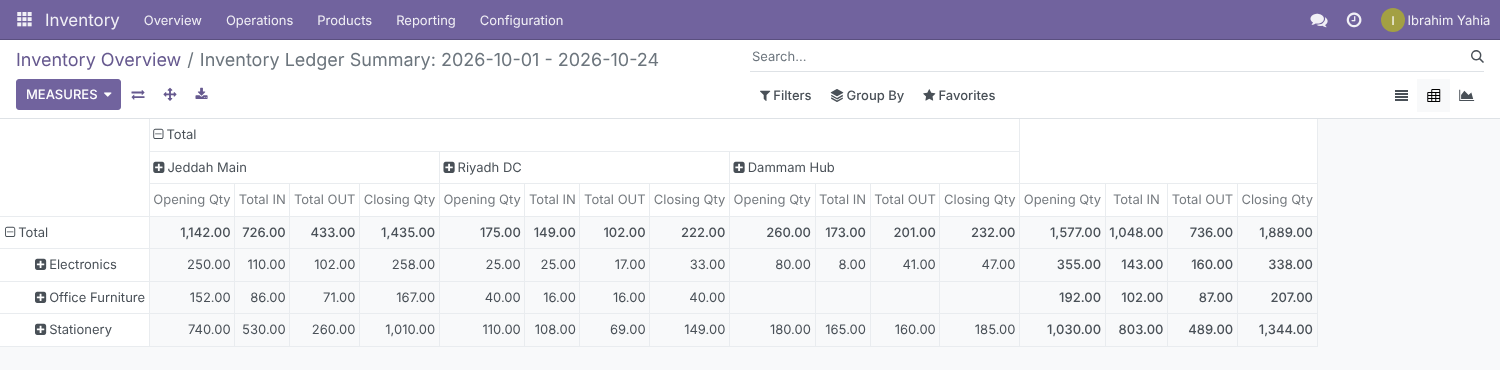
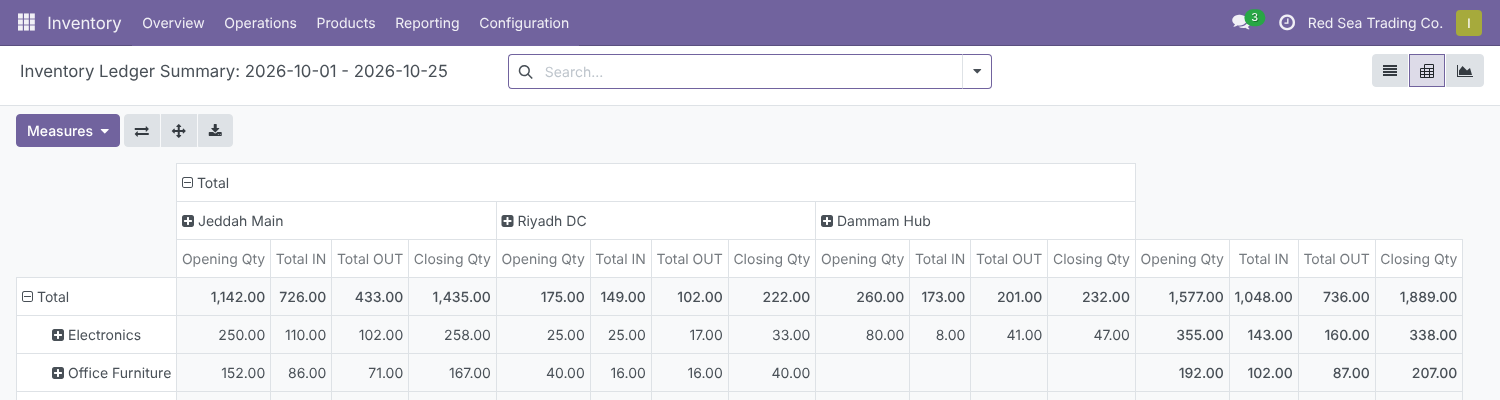
Add files via upload

diff --git a/advanced_inventory_ledger_report/static/description/index.html b/advanced_inventory_ledger_report/static/description/index.html
@@ -1,4 +1,4 @@
-<!-- Odoo Apps description page for advanced_inventory_ledger_report (Odoo 16.0). Inline styles only: apps.odoo.com strips <style> and <script> blocks. -->
+<!-- Odoo Apps description page for advanced_inventory_ledger_report (Odoo 18.0). Inline styles only: apps.odoo.com strips <style> and <script> blocks. -->
 <section style="max-width:1120px;margin:0 auto;padding:0 16px;font-family:-apple-system,BlinkMacSystemFont,'Segoe UI',Roboto,'Helvetica Neue',Arial,sans-serif;color:#2b2b33;">
 
 <!-- ============================== HERO ============================== -->
@@ -7,9 +7,9 @@
   <h1 style="font-size:40px;line-height:1.15;font-weight:700;margin:0 0 14px;color:#ffffff;">Advanced Inventory Ledger Report</h1>
   <p style="font-size:19px;line-height:1.55;max-width:760px;margin:0 0 24px;color:#ffffff;opacity:.95;">Opening stock, every receipt, delivery, return, transfer and adjustment, and closing stock &ndash; quantity and value, per product and warehouse, for any period. Computed by a single PostgreSQL query and delivered as an interactive list, pivot, Excel file or PDF.</p>
   <div>
-    <span style="display:inline-block;border:1px solid rgba(255,255,255,.7);border-radius:20px;padding:6px 14px;margin:0 8px 8px 0;font-size:14px;">Odoo 16.0</span>
+    <span style="display:inline-block;border:1px solid rgba(255,255,255,.7);border-radius:20px;padding:6px 14px;margin:0 8px 8px 0;font-size:14px;">Odoo 18.0</span>
     <span style="display:inline-block;border:1px solid rgba(255,255,255,.7);border-radius:20px;padding:6px 14px;margin:0 8px 8px 0;font-size:14px;">Community &amp; Enterprise</span>
-    <span style="display:inline-block;border:1px solid rgba(255,255,255,.7);border-radius:20px;padding:6px 14px;margin:0 8px 8px 0;font-size:14px;">17 automated tests</span>
+    <span style="display:inline-block;border:1px solid rgba(255,255,255,.7);border-radius:20px;padding:6px 14px;margin:0 8px 8px 0;font-size:14px;">19 automated tests</span>
     <span style="display:inline-block;border:1px solid rgba(255,255,255,.7);border-radius:20px;padding:6px 14px;margin:0 8px 8px 0;font-size:14px;">English &amp; Arabic</span>
     <span style="display:inline-block;border:1px solid rgba(255,255,255,.7);border-radius:20px;padding:6px 14px;margin:0 8px 8px 0;font-size:14px;">Technical name: advanced_inventory_ledger_report</span>
     <span style="display:inline-block;border:1px solid rgba(255,255,255,.7);border-radius:20px;padding:6px 14px;margin:0 8px 8px 0;font-size:14px;">LGPL-3</span>
@@ -21,7 +21,7 @@
   <div style="flex:1 1 220px;margin:8px;background:#f6f4f6;border-radius:14px;padding:20px 22px;"><div style="font-size:30px;font-weight:700;color:#714B67;">1 SQL query</div><div style="font-size:15px;color:#555;">per report run, whatever the number of products or warehouses</div></div>
   <div style="flex:1 1 220px;margin:8px;background:#eef6f6;border-radius:14px;padding:20px 22px;"><div style="font-size:30px;font-weight:700;color:#017E84;">8 movement types</div><div style="font-size:15px;color:#555;">purchases, sales, both kinds of returns, internal IN / OUT, adjustments</div></div>
   <div style="flex:1 1 220px;margin:8px;background:#f6f4f6;border-radius:14px;padding:20px 22px;"><div style="font-size:30px;font-weight:700;color:#714B67;">3 outputs</div><div style="font-size:15px;color:#555;">list / pivot / graph in Odoo, branded Excel, landscape PDF</div></div>
-  <div style="flex:1 1 220px;margin:8px;background:#eef6f6;border-radius:14px;padding:20px 22px;"><div style="font-size:30px;font-weight:700;color:#017E84;">17 tests</div><div style="font-size:15px;color:#555;">closing stock and value checked against Odoo&rsquo;s own figures</div></div>
+  <div style="flex:1 1 220px;margin:8px;background:#eef6f6;border-radius:14px;padding:20px 22px;"><div style="font-size:30px;font-weight:700;color:#017E84;">19 tests</div><div style="font-size:15px;color:#555;">closing stock and value checked against Odoo&rsquo;s own figures</div></div>
 </div>
 
 <!-- ============================== WHY ============================== -->
@@ -29,7 +29,7 @@
 <p style="font-size:16px;color:#555;margin:0 0 18px;">Accountants and warehouse managers ask the same question every month: <i>what did we have, what came in, what went out, and what is left?</i> Standard Odoo has the data but not the report.</p>
 <div style="display:flex;flex-wrap:wrap;margin:0 -10px;">
   <div style="flex:1 1 440px;margin:10px;border:1px solid #f1d6d6;background:#fff8f8;border-radius:14px;padding:24px 26px;">
-    <h3 style="font-size:19px;font-weight:700;color:#b33939;margin:0 0 12px;">In standard Odoo 16</h3>
+    <h3 style="font-size:19px;font-weight:700;color:#b33939;margin:0 0 12px;">In standard Odoo 18</h3>
     <ul style="font-size:15px;line-height:1.65;margin:0;padding-left:20px;color:#3a3a42;">
       <li>The <b>Stock</b> report shows quantities at one point in time; there is <b>no opening &rarr; closing bridge</b> for a period.</li>
       <li><b>Moves History</b> lists move lines one by one, with <b>no opening balance and no running balance</b>.</li>
@@ -64,19 +64,19 @@
 
 <!-- ============================== FEATURES ============================== -->
 <h2 style="font-size:28px;font-weight:700;margin:44px 0 6px;color:#2b2b33;">Features</h2>
-<p style="font-size:16px;color:#555;margin:0;">Screenshots use demo data: <b>Red Sea Trading Co.</b> (SAR) with three warehouses &ndash; Jeddah Main, Riyadh DC and Dammam Hub &ndash; 12 products in three categories and 20 transfers over September and October 2026. The report period is 1&ndash;24 October 2026.</p>
+<p style="font-size:16px;color:#555;margin:0;">Screenshots use demo data: <b>Red Sea Trading Co.</b> (SAR) with three warehouses &ndash; Jeddah Main, Riyadh DC and Dammam Hub &ndash; 12 products in three categories and 20 transfers over September and October 2026. The report period is 1&ndash;25 October 2026.</p>
 
 <div style="margin:44px 0 0;">
   <div style="font-size:13px;font-weight:700;color:#017E84;letter-spacing:1px;text-transform:uppercase;">Menus</div>
   <h3 style="font-size:23px;font-weight:700;margin:4px 0 8px;">Right where stock reports live</h3>
-  <p style="font-size:15px;line-height:1.6;color:#555;margin:0 0 14px;">A single entry, <b>Inventory &rsaquo; Reporting &rsaquo; Inventory Ledger</b>, available to every <b>Inventory / User</b>. Nothing to configure after installation.</p>
+  <p style="font-size:15px;line-height:1.6;color:#555;margin:0 0 14px;">A single entry, <b>Inventory &rsaquo; Reporting &rsaquo; Inventory Ledger</b>. Like the rest of Odoo&rsquo;s Reporting menu it is visible to <b>Inventory / Administrator</b> users. Nothing to configure after installation.</p>
   <img src="ilr_01_menu.png" alt="Inventory Ledger entry in the Inventory Reporting menu" style="width:100%;max-width:760px;border:1px solid #e1e1e6;border-radius:10px;box-shadow:0 6px 24px rgba(30,30,60,.10);"/>
 </div>
 
 <div style="margin:44px 0 0;">
   <div style="font-size:13px;font-weight:700;color:#017E84;letter-spacing:1px;text-transform:uppercase;">Feature 1</div>
   <h3 style="font-size:23px;font-weight:700;margin:4px 0 8px;">One dialog for every question</h3>
-  <p style="font-size:15px;line-height:1.6;color:#555;margin:0 0 14px;">Pick the <b>Report Type</b> (<b>Summary</b> or <b>Detailed</b>) and the <b>Period</b> &ndash; by default the first of the month to today. Narrow the <b>Scope</b> with <b>Warehouses</b>, <b>Product Categories</b> (sub-categories included) and <b>Products</b>, or leave them empty for everything. <b>Hide Zero Lines</b> skips products with no opening stock and no movement. The <b>Opening Stock Method</b> chooses between <b>Fast</b> (current stock rolled back to the start date) and <b>Audit</b> (sum of the full move history) &ndash; both give the same figures on healthy data, so you can use Audit to cross-check.</p>
+  <p style="font-size:15px;line-height:1.6;color:#555;margin:0 0 14px;">Pick the <b>Report Type</b> (<b>Summary</b> or <b>Detailed</b>) and the <b>Period</b> &ndash; by default the first of the month to today. Narrow the <b>Scope</b> with <b>Warehouses</b>, <b>Product Categories</b> (sub-categories included) and <b>Products</b> (goods with <b>Track Inventory</b>), or leave them empty for everything. <b>Hide Zero Lines</b> skips products with no opening stock and no movement. The <b>Opening Stock Method</b> chooses between <b>Fast</b> (current stock rolled back to the start date) and <b>Audit</b> (sum of the full move history) &ndash; both give the same figures on healthy data, so you can use Audit to cross-check.</p>
   <img src="ilr_02_wizard.png" alt="Inventory Ledger wizard with Summary report type and default period" style="width:100%;max-width:1000px;border:1px solid #e1e1e6;border-radius:10px;box-shadow:0 6px 24px rgba(30,30,60,.10);"/>
 </div>
 
@@ -91,7 +91,7 @@
 <div style="margin:44px 0 0;">
   <div style="font-size:13px;font-weight:700;color:#017E84;letter-spacing:1px;text-transform:uppercase;">Feature 3</div>
   <h3 style="font-size:23px;font-weight:700;margin:4px 0 8px;">Pivot and graph out of the box</h3>
-  <p style="font-size:15px;line-height:1.6;color:#555;margin:0 0 14px;">The same lines open in Odoo&rsquo;s native <b>pivot</b> &ndash; product categories down, warehouses across, with <b>Opening Qty</b>, <b>Total IN</b>, <b>Total OUT</b> and <b>Closing Qty</b> as measures &ndash; and in a <b>graph</b> of closing stock per warehouse, stacked by category. Re-group, swap axes, add value measures or download the pivot as usual.</p>
+  <p style="font-size:15px;line-height:1.6;color:#555;margin:0 0 14px;">The same lines open in Odoo&rsquo;s native <b>pivot</b> &ndash; product categories down, warehouses across, with <b>Opening Qty</b>, <b>Total IN</b>, <b>Total OUT</b> and <b>Closing Qty</b> as measures &ndash; and in a <b>graph</b> of closing stock per warehouse, stacked by category, with Odoo&rsquo;s <b>Sum</b> line on top. Re-group, swap axes, add value measures or download the pivot as usual.</p>
   <img src="ilr_04_pivot.png" alt="Pivot of opening, IN, OUT and closing quantity by category and warehouse" style="width:100%;margin-bottom:22px;border:1px solid #e1e1e6;border-radius:10px;box-shadow:0 6px 24px rgba(30,30,60,.10);"/>
   <img src="ilr_05_graph.png" alt="Bar graph of closing stock per warehouse stacked by product category" style="width:100%;border:1px solid #e1e1e6;border-radius:10px;box-shadow:0 6px 24px rgba(30,30,60,.10);"/>
 </div>
@@ -164,23 +164,24 @@
   <div style="flex:1 1 320px;margin:8px;padding:16px 18px;border:1px solid #e8e8ee;border-radius:12px;"><b>Fast opening stock</b><br/><span style="color:#555;">The default method reads only moves since the start date and rolls back today&rsquo;s stock. Use the Audit method to rebuild from full history and compare.</span></div>
   <div style="flex:1 1 320px;margin:8px;padding:16px 18px;border:1px solid #e8e8ee;border-radius:12px;"><b>Inter-warehouse transfers</b><br/><span style="color:#555;">Internal OUT in the source, Internal IN in the destination, including transfers through a transit location. Moves within one warehouse do not inflate totals.</span></div>
   <div style="flex:1 1 320px;margin:8px;padding:16px 18px;border:1px solid #e8e8ee;border-radius:12px;"><b>Sub-locations</b><br/><span style="color:#555;">Shelves, bins and any internal location below a warehouse are counted as that warehouse.</span></div>
-  <div style="flex:1 1 320px;margin:8px;padding:16px 18px;border:1px solid #e8e8ee;border-radius:12px;"><b>Units of measure</b><br/><span style="color:#555;">Quantities are converted to the product&rsquo;s unit of measure, so purchases in boxes and sales in units add up correctly.</span></div>
+  <div style="flex:1 1 320px;margin:8px;padding:16px 18px;border:1px solid #e8e8ee;border-radius:12px;"><b>Units of measure and over-receipts</b><br/><span style="color:#555;">The quantity actually done is converted to the product&rsquo;s unit of measure, so a receipt of 2 Dozens counts as 24 Units, and receiving more than ordered is counted in full.</span></div>
   <div style="flex:1 1 320px;margin:8px;padding:16px 18px;border:1px solid #e8e8ee;border-radius:12px;"><b>Returns and adjustments</b><br/><span style="color:#555;">Customer and vendor returns get their own columns instead of reducing sales or purchases; inventory adjustments, scrap and production go to Adjust. / Prod.</span></div>
   <div style="flex:1 1 320px;margin:8px;padding:16px 18px;border:1px solid #e8e8ee;border-radius:12px;"><b>Time zones</b><br/><span style="color:#555;">The period covers whole days in the user&rsquo;s time zone, so a delivery at 1 a.m. Riyadh time lands on the right day.</span></div>
-  <div style="flex:1 1 320px;margin:8px;padding:16px 18px;border:1px solid #e8e8ee;border-radius:12px;"><b>Archived products</b><br/><span style="color:#555;">Products archived later still appear for periods in which they moved. Consumables and services are left out, as they have no stock.</span></div>
+  <div style="flex:1 1 320px;margin:8px;padding:16px 18px;border:1px solid #e8e8ee;border-radius:12px;"><b>Archived and untracked products</b><br/><span style="color:#555;">Products archived later still appear for periods in which they moved. Only goods with <b>Track Inventory</b> enabled are reported; untracked goods and services have no stock.</span></div>
   <div style="flex:1 1 320px;margin:8px;padding:16px 18px;border:1px solid #e8e8ee;border-radius:12px;"><b>Negative stock</b><br/><span style="color:#555;">Negative closing quantities and running balances are shown in red and have their own search filters, so data issues stand out.</span></div>
 </div>
 
 <!-- ============================== SECURITY ============================== -->
 <h2 style="font-size:28px;font-weight:700;margin:48px 0 6px;color:#2b2b33;">Security</h2>
-<p style="font-size:16px;color:#555;margin:0 0 18px;">Uses Odoo&rsquo;s Inventory groups; no new group to assign.</p>
+<p style="font-size:16px;color:#555;margin:0 0 18px;">Uses Odoo&rsquo;s own Inventory groups; no new group to assign.</p>
 <table style="width:100%;border-collapse:collapse;font-size:15px;">
   <thead><tr style="background:#714B67;color:#fff;"><th style="text-align:left;padding:10px 14px;">Who</th><th style="text-align:left;padding:10px 14px;">Sees / can do</th></tr></thead>
   <tbody>
-    <tr style="border-bottom:1px solid #eee;"><td style="padding:10px 14px;width:30%;"><b>Inventory / User</b> and above</td><td style="padding:10px 14px;">The menu, the wizard, the views, Excel and PDF.</td></tr>
-    <tr style="border-bottom:1px solid #eee;background:#fafafa;"><td style="padding:10px 14px;"><b>Each user</b></td><td style="padding:10px 14px;">Only their own report runs: record rules keep one user&rsquo;s results and downloads private from another&rsquo;s.</td></tr>
-    <tr style="border-bottom:1px solid #eee;"><td style="padding:10px 14px;"><b>Multi-company</b></td><td style="padding:10px 14px;">A report can only include companies the user is allowed in; any other company is refused with an access error, and result lines are limited to the user&rsquo;s active companies.</td></tr>
-    <tr style="border-bottom:1px solid #eee;background:#fafafa;"><td style="padding:10px 14px;"><b>Excel download</b></td><td style="padding:10px 14px;">Logged-in users only, after an access check on the report run.</td></tr>
+    <tr style="border-bottom:1px solid #eee;"><td style="padding:10px 14px;width:30%;"><b>Inventory / Administrator</b></td><td style="padding:10px 14px;">The <b>Inventory &rsaquo; Reporting</b> menu entry, the wizard, the views, Excel and PDF.</td></tr>
+    <tr style="border-bottom:1px solid #eee;background:#fafafa;"><td style="padding:10px 14px;"><b>Inventory / User</b></td><td style="padding:10px 14px;">Access rights to run the report and read its results. Odoo shows the Reporting menu to administrators only; add the menu to the user group if users should open it themselves.</td></tr>
+    <tr style="border-bottom:1px solid #eee;"><td style="padding:10px 14px;"><b>Each user</b></td><td style="padding:10px 14px;">Only their own report runs: record rules keep one user&rsquo;s results and downloads private from another&rsquo;s.</td></tr>
+    <tr style="border-bottom:1px solid #eee;background:#fafafa;"><td style="padding:10px 14px;"><b>Multi-company</b></td><td style="padding:10px 14px;">A report can only include companies the user is allowed in; any other company is refused with an access error, and result lines are limited to the user&rsquo;s active companies.</td></tr>
+    <tr style="border-bottom:1px solid #eee;"><td style="padding:10px 14px;"><b>Excel download</b></td><td style="padding:10px 14px;">Logged-in users only, after an access check on the report run.</td></tr>
   </tbody>
 </table>
 
@@ -188,15 +189,15 @@
 <h2 style="font-size:28px;font-weight:700;margin:48px 0 6px;color:#2b2b33;">Technical details</h2>
 <table style="width:100%;border-collapse:collapse;font-size:15px;">
   <tbody>
-    <tr style="border-bottom:1px solid #eee;"><td style="padding:10px 14px;width:30%;color:#777;">Odoo version</td><td style="padding:10px 14px;overflow-wrap:anywhere;">16.0, Community and Enterprise</td></tr>
+    <tr style="border-bottom:1px solid #eee;"><td style="padding:10px 14px;width:30%;color:#777;">Odoo version</td><td style="padding:10px 14px;overflow-wrap:anywhere;">18.0, Community and Enterprise</td></tr>
     <tr style="border-bottom:1px solid #eee;background:#fafafa;"><td style="padding:10px 14px;color:#777;">Depends on</td><td style="padding:10px 14px;overflow-wrap:anywhere;"><code>stock</code>, <code>stock_account</code></td></tr>
-    <tr style="border-bottom:1px solid #eee;"><td style="padding:10px 14px;color:#777;">Python dependency</td><td style="padding:10px 14px;overflow-wrap:anywhere;"><code>xlsxwriter</code> (already required by Odoo 16)</td></tr>
+    <tr style="border-bottom:1px solid #eee;"><td style="padding:10px 14px;color:#777;">Python dependency</td><td style="padding:10px 14px;overflow-wrap:anywhere;"><code>xlsxwriter</code> (already required by Odoo 18)</td></tr>
     <tr style="border-bottom:1px solid #eee;background:#fafafa;"><td style="padding:10px 14px;color:#777;">Menu</td><td style="padding:10px 14px;overflow-wrap:anywhere;">Inventory &rsaquo; Reporting &rsaquo; Inventory Ledger</td></tr>
     <tr style="border-bottom:1px solid #eee;"><td style="padding:10px 14px;color:#777;">Settings</td><td style="padding:10px 14px;overflow-wrap:anywhere;">None. The PDF paper format &ldquo;Inventory Ledger (A4 Landscape)&rdquo; can be adjusted in Settings &rsaquo; Technical &rsaquo; Paper Format (developer mode).</td></tr>
     <tr style="border-bottom:1px solid #eee;background:#fafafa;"><td style="padding:10px 14px;color:#777;">Models</td><td style="padding:10px 14px;overflow-wrap:anywhere;"><code>inventory.ledger.wizard</code>, <code>inventory.ledger.line</code> (transient, purged after 24 hours), <code>inventory.ledger.engine</code> (SQL engine), <code>inventory.ledger.xlsx</code> (Excel generator)</td></tr>
     <tr style="border-bottom:1px solid #eee;"><td style="padding:10px 14px;color:#777;">Reports</td><td style="padding:10px 14px;overflow-wrap:anywhere;">QWeb PDF &ldquo;Inventory Ledger&rdquo;; Excel streamed from <code>/advanced_inventory_ledger_report/xlsx/&lt;id&gt;</code></td></tr>
     <tr style="border-bottom:1px solid #eee;background:#fafafa;"><td style="padding:10px 14px;color:#777;">Languages</td><td style="padding:10px 14px;overflow-wrap:anywhere;">English, Arabic (<code>i18n/ar.po</code>); <code>.pot</code> template included</td></tr>
-    <tr style="border-bottom:1px solid #eee;"><td style="padding:10px 14px;color:#777;">Automated tests</td><td style="padding:10px 14px;overflow-wrap:anywhere;">17 <code>TransactionCase</code> tests: movement classification, closing quantity against <code>qty_available</code> (today and at a past date), closing value against the stock valuation, Fast and Audit methods agreeing over several periods, filters, running balance, Excel and PDF rendering, drill-down, right-to-left detection, and the security rules</td></tr>
+    <tr style="border-bottom:1px solid #eee;"><td style="padding:10px 14px;color:#777;">Automated tests</td><td style="padding:10px 14px;overflow-wrap:anywhere;">19 <code>TransactionCase</code> tests: movement classification, over-receipts and receipts in another unit of measure, closing quantity against <code>qty_available</code> (today and at a past date), closing value against the stock valuation, Fast and Audit methods agreeing over several periods, filters, running balance, Excel and PDF rendering, drill-down, right-to-left detection, and the security rules</td></tr>
     <tr style="border-bottom:1px solid #eee;background:#fafafa;"><td style="padding:10px 14px;color:#777;">License</td><td style="padding:10px 14px;overflow-wrap:anywhere;">LGPL-3</td></tr>
   </tbody>
 </table>

diff --git a/advanced_inventory_ledger_report/tests/test_inventory_ledger.py b/advanced_inventory_ledger_report/tests/test_inventory_ledger.py
@@ -40,13 +40,15 @@ class TestInventoryLedger(TransactionCase):
         cls.product = cls.env['product.product'].create({
             'name': 'Ledger Test Product',
             'default_code': 'LTP-001',
-            'type': 'product',
+            'type': 'consu',
+            'is_storable': True,
             'categ_id': cls.categ.id,
             'standard_price': 10.0,
         })
         cls.product_idle = cls.env['product.product'].create({
             'name': 'Ledger Idle Product',
-            'type': 'product',
+            'type': 'consu',
+            'is_storable': True,
             'categ_id': cls.categ.id,
             'standard_price': 5.0,
         })
@@ -71,7 +73,8 @@ class TestInventoryLedger(TransactionCase):
         })
         move._action_confirm()
         move._action_assign()
-        move.quantity_done = qty
+        move.quantity = qty
+        move.picked = True
         move._action_done()
         # back-date the move, its lines and its valuation layers
         move.write({'date': date})
@@ -133,7 +136,7 @@ class TestInventoryLedger(TransactionCase):
         """Closing per warehouse == product.qty_available in that warehouse."""
         wizard = self._run()
         for warehouse in (self.wh1, self.wh2):
-            on_hand = self.product.with_context(warehouse=warehouse.id).qty_available
+            on_hand = self.product.with_context(warehouse_id=warehouse.id).qty_available
             self.assertQty(self._line(wizard, warehouse).closing_qty, on_hand)
         self.assertQty(sum(wizard.line_ids.mapped('closing_qty')), self.product.qty_available)
 
@@ -150,7 +153,7 @@ class TestInventoryLedger(TransactionCase):
         wizard = self._run(days_back=20, date_to=self.today - timedelta(days=6))
         _start, end = wizard._get_utc_bounds()
         wh1 = self._line(wizard, self.wh1)
-        expected = self.product.with_context(warehouse=self.wh1.id, to_date=end).qty_available
+        expected = self.product.with_context(warehouse_id=self.wh1.id, to_date=end).qty_available
         self.assertQty(wh1.opening_qty, 0)
         self.assertQty(wh1.in_purchase_qty, 100)
         self.assertQty(wh1.closing_qty, expected)
@@ -188,6 +191,50 @@ class TestInventoryLedger(TransactionCase):
         self.product.categ_id = child
         wizard = self._run(product_ids=[(5, 0, 0)], categ_ids=[(6, 0, self.categ.ids)])
         self.assertIn(self.product, wizard.line_ids.product_id)
+
+    def test_09_over_receipt_counts_done_quantity(self):
+        """Odoo 17 keeps the done quantity in `quantity`; receiving more than the
+        demand must still be counted in full by the ledger."""
+        move = self.env['stock.move'].create({
+            'name': 'Over receipt',
+            'product_id': self.product.id,
+            'product_uom_qty': 10,
+            'product_uom': self.product.uom_id.id,
+            'location_id': self.supplier_loc.id,
+            'location_dest_id': self.wh2.lot_stock_id.id,
+            'company_id': self.company.id,
+        })
+        move._action_confirm()
+        move._action_assign()
+        move.quantity = 12
+        move.picked = True
+        move._action_done()
+        wizard = self._run(days_back=1, warehouse_ids=[(6, 0, self.wh2.ids)])
+        line = self._line(wizard, self.wh2)
+        self.assertQty(line.in_purchase_qty, 12)
+        self.assertQty(line.closing_qty, self.product.with_context(warehouse_id=self.wh2.id).qty_available)
+
+    def test_09b_receipt_in_other_uom(self):
+        """A receipt in Dozens of a product stocked in Units is counted in Units."""
+        dozen = self.env.ref('uom.product_uom_dozen')
+        move = self.env['stock.move'].create({
+            'name': 'Receipt in dozens',
+            'product_id': self.product.id,
+            'product_uom_qty': 2,
+            'product_uom': dozen.id,
+            'location_id': self.supplier_loc.id,
+            'location_dest_id': self.wh2.lot_stock_id.id,
+            'company_id': self.company.id,
+        })
+        move._action_confirm()
+        move._action_assign()
+        move.quantity = 2
+        move.picked = True
+        move._action_done()
+        wizard = self._run(days_back=1, warehouse_ids=[(6, 0, self.wh2.ids)])
+        line = self._line(wizard, self.wh2)
+        self.assertQty(line.in_purchase_qty, 24)
+        self.assertQty(line.closing_qty, self.product.with_context(warehouse_id=self.wh2.id).qty_available)
 
     # ------------------------------------------------------------------
     # Detailed ledger
@@ -245,6 +292,7 @@ class TestInventoryLedger(TransactionCase):
     def test_23_rtl_follows_report_language(self):
         """Direction comes from the language the report is rendered in, not the user's default."""
         self.env['res.lang']._activate_lang('ar_001')
+        self.env['res.lang']._activate_lang('en_US')
         wizard = self._run()
         self.assertFalse(wizard.with_context(lang='en_US').get_filter_summary()['rtl'])
         self.assertTrue(wizard.with_context(lang='ar_001').get_filter_summary()['rtl'])

diff --git a/advanced_inventory_ledger_report/models/inventory_ledger_engine.py b/advanced_inventory_ledger_report/models/inventory_ledger_engine.py
@@ -33,6 +33,12 @@ internal/transit   in_internal                 out_internal
 inventory/prod...  in_other                    out_other
 =================  ==========================  ==========================
 
+Quantities
+----------
+Since Odoo 17 the done quantity is stored in ``stock_move.quantity`` (move UoM); ``product_qty``
+keeps the original demand when more than the demand is processed. Legs therefore use
+``quantity`` converted to the product UoM: qty / move_uom.factor * product_uom.factor.
+
 Opening stock strategies
 ------------------------
 ``moves``   opening = SUM(legs before date_from). Reads the whole move
@@ -71,16 +77,18 @@ prod AS (
     SELECT pp.id AS product_id, pt.categ_id, pt.uom_id
       FROM product_product pp
       JOIN product_template pt ON pt.id = pp.product_tmpl_id
-     WHERE pt.type = 'product'
+     WHERE pt.is_storable
        AND (%(product_ids)s::int[] IS NULL OR pp.id = ANY(%(product_ids)s::int[]))
        AND (%(categ_ids)s::int[] IS NULL OR pt.categ_id = ANY(%(categ_ids)s::int[]))
 ),
 legs AS (
     -- IN legs: destination inside the warehouse, source outside it
     SELECT m.id AS move_id, m.date, m.product_id, d.warehouse_id, d.company_id,
-           1 AS direction, m.product_qty AS qty, src.usage AS other_usage
+           1 AS direction, m.quantity / mu.factor * pu.factor AS qty, src.usage AS other_usage
       FROM stock_move m
       JOIN prod ON prod.product_id = m.product_id
+      JOIN uom_uom mu ON mu.id = m.product_uom
+      JOIN uom_uom pu ON pu.id = prod.uom_id
       JOIN loc d ON d.location_id = m.location_dest_id
       JOIN stock_location src ON src.id = m.location_id
  LEFT JOIN loc s ON s.location_id = m.location_id AND s.warehouse_id = d.warehouse_id
@@ -91,9 +99,11 @@ legs AS (
     UNION ALL
     -- OUT legs: source inside the warehouse, destination outside it
     SELECT m.id, m.date, m.product_id, s.warehouse_id, s.company_id,
-           -1, m.product_qty, dst.usage
+           -1, m.quantity / mu.factor * pu.factor, dst.usage
       FROM stock_move m
       JOIN prod ON prod.product_id = m.product_id
+      JOIN uom_uom mu ON mu.id = m.product_uom
+      JOIN uom_uom pu ON pu.id = prod.uom_id
       JOIN loc s ON s.location_id = m.location_id
       JOIN stock_location dst ON dst.id = m.location_dest_id
  LEFT JOIN loc d ON d.location_id = m.location_dest_id AND d.warehouse_id = s.warehouse_id

diff --git a/advanced_inventory_ledger_report/wizard/inventory_ledger_wizard.py b/advanced_inventory_ledger_report/wizard/inventory_ledger_wizard.py
@@ -49,7 +49,7 @@ class InventoryLedgerWizard(models.TransientModel):
         string='Product Categories', help='Sub-categories are included.')
     product_ids = fields.Many2many(
         'product.product', 'inv_ledger_wiz_product_rel', 'wizard_id', 'product_id',
-        string='Products', domain="[('type', '=', 'product')]")
+        string='Products', domain="[('is_storable', '=', True)]")
     hide_zero = fields.Boolean(
         'Hide Zero Lines', default=True,
         help='Skip products with no opening stock and no movement in the period.')
@@ -134,9 +134,9 @@ class InventoryLedgerWizard(models.TransientModel):
                       type=dict(self._fields['report_type']._description_selection(self.env))[self.report_type],
                       start=self.date_from, end=self.date_to),
             'res_model': 'inventory.ledger.line',
-            'view_mode': 'tree,pivot,graph',
+            'view_mode': 'list,pivot,graph',
             'views': [
-                (self.env.ref(ref % (suffix, 'tree')).id, 'tree'),
+                (self.env.ref(ref % (suffix, 'tree')).id, 'list'),
                 (self.env.ref(ref % (suffix, 'pivot')).id, 'pivot'),
                 (self.env.ref(ref % (suffix, 'graph')).id, 'graph'),
             ],

diff --git a/advanced_inventory_ledger_report/models/inventory_ledger_line.py b/advanced_inventory_ledger_report/models/inventory_ledger_line.py
@@ -56,7 +56,7 @@ class InventoryLedgerLine(models.TransientModel):
     partner_id = fields.Many2one('res.partner', string='Partner', readonly=True)
     movement_type = fields.Selection(MOVEMENT_TYPES, readonly=True)
     balance_qty = fields.Float(
-        'Running Balance', digits=QTY_DIGITS, readonly=True, group_operator=False)
+        'Running Balance', digits=QTY_DIGITS, readonly=True, aggregator=False)
 
     # ---- quantities ------------------------------------------------------
     opening_qty = fields.Float('Opening Qty', digits=QTY_DIGITS, readonly=True)
@@ -73,7 +73,7 @@ class InventoryLedgerLine(models.TransientModel):
     closing_qty = fields.Float('Closing Qty', digits=QTY_DIGITS, readonly=True)
 
     # ---- valuation -------------------------------------------------------
-    unit_cost = fields.Float('Unit Cost', digits=VALUE_DIGITS, readonly=True, group_operator='avg')
+    unit_cost = fields.Float('Unit Cost', digits=VALUE_DIGITS, readonly=True, aggregator='avg')
     opening_value = fields.Float('Opening Value', digits=VALUE_DIGITS, readonly=True)
     in_value = fields.Float('IN Value', digits=VALUE_DIGITS, readonly=True)
     out_value = fields.Float('OUT Value', digits=VALUE_DIGITS, readonly=True)

diff --git a/advanced_inventory_ledger_report/controllers/main.py b/advanced_inventory_ledger_report/controllers/main.py
@@ -17,8 +17,7 @@ class InventoryLedgerController(http.Controller):
         if not wizard:
             raise NotFound()
         # ACL + record rule (own runs only) - raises AccessError otherwise
-        wizard.check_access_rights('read')
-        wizard.check_access_rule('read')
+        wizard.check_access('read')
         content, filename = wizard._generate_xlsx()
         return request.make_response(content, headers=[
             ('Content-Type', XLSX_MIMETYPE),

diff --git a/advanced_inventory_ledger_report/__manifest__.py b/advanced_inventory_ledger_report/__manifest__.py
@@ -1,7 +1,7 @@
 # -*- coding: utf-8 -*-
 {
     'name': 'Advanced Inventory Ledger Report',
-    'version': '16.0.1.0.0',
+    'version': '18.0.1.0.0',
     'category': 'Inventory/Inventory',
     'summary': 'High-performance SQL inventory ledger: opening, inbound, outbound '
                'and closing stock & value per warehouse - Browser, Excel and PDF',

diff --git a/advanced_inventory_ledger_report/__init__.py b/advanced_inventory_ledger_report/__init__.py
@@ -9,7 +9,7 @@ LEDGER_INDEXES = (
 )
 
 
-def uninstall_hook(cr, registry):
+def uninstall_hook(env):
     """Drop the helper indexes this module created on core tables."""
     for index in LEDGER_INDEXES:
-        cr.execute('DROP INDEX IF EXISTS %s' % index)
+        env.cr.execute('DROP INDEX IF EXISTS %s' % index)

diff --git a/advanced_inventory_ledger_report/README.md b/advanced_inventory_ledger_report/README.md
@@ -1,4 +1,4 @@
-# Advanced Inventory Ledger Report (Odoo 16 · Community & Enterprise)
+# Advanced Inventory Ledger Report (Odoo 18 · Community & Enterprise)
 
 Inventory → Reporting → **Inventory Ledger**
 
@@ -34,13 +34,14 @@ advanced_inventory_ledger_report/
 
 | Concept | Rule |
 |---|---|
+| Products | goods with **Track Inventory** enabled (`is_storable`, Odoo 18) |
 | Warehouse scope | every `internal` location under the warehouse's view location |
 | IN leg | done move whose destination is in the warehouse and source is not |
 | OUT leg | done move whose source is in the warehouse and destination is not |
 | Moves inside one warehouse | ignored (put-away, pick, pack: net zero) |
 | WH1 → WH2 transfer | Internal OUT for WH1, Internal IN for WH2 |
 | Classification | by the other location's usage: supplier, customer, internal/transit, other (inventory loss, production, scrap) |
-| Quantities | `stock_move.product_qty` (already in the product's UoM) |
+| Quantities | done quantity `stock_move.quantity`, converted to the product's UoM (since Odoo 17 `product_qty` keeps the original demand after an over-receipt) |
 | Dates | period boundaries are whole days in the user's timezone, converted to UTC |
 
 ### Opening stock method
